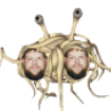
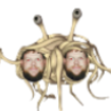
ALL STUFFS

diff --git a/Player.py b/Player.py
@@ -3,10 +3,10 @@ from Meatball import *
 
 class Player(Ball):
     def __init__(self, maxSpeed =5 , pos=[0,0]):
-        Ball.__init__(self, "SPOONER3.png", [0,0], pos, None)
+        Ball.__init__(self, "SPOONER31.png", [0,0], pos, None)
         self.maxSpeed = maxSpeed     
-        self.images = [pygame.image.load("rsc/ball/SPOONER3.png"),
-                       pygame.image.load("rsc/ball/SPOONER3.png")
+        self.images = [pygame.image.load("rsc/ball/SPOONER31.png"),
+                       pygame.image.load("rsc/ball/SPOONER31.png")
                       ]
         self.frame = 0
         self.maxFrame = len(self.images) - 1

diff --git a/Game.py b/Game.py
@@ -16,8 +16,8 @@ size = width, height
 screen = pygame.display.set_mode(size)
 
 bgColor = r,g,b = 0, 0, 0
-#bgImg = pyg
-#bgRect bgImage.get_rect("background/Background.png")
+bgImg = pyg
+bgRect bgImage.get_rect("background/Background.png")
 
 level = Level("level1.lvl")
 
@@ -90,7 +90,7 @@ while True:
                 hitter.bounceBall(hittie)
         if player.bounceBall(hitter):
             balls.remove(hitter)
-    #bg
+    bg
     bgColor = r,g,b
     screen.fill(bgColor)
     for ball in balls:
